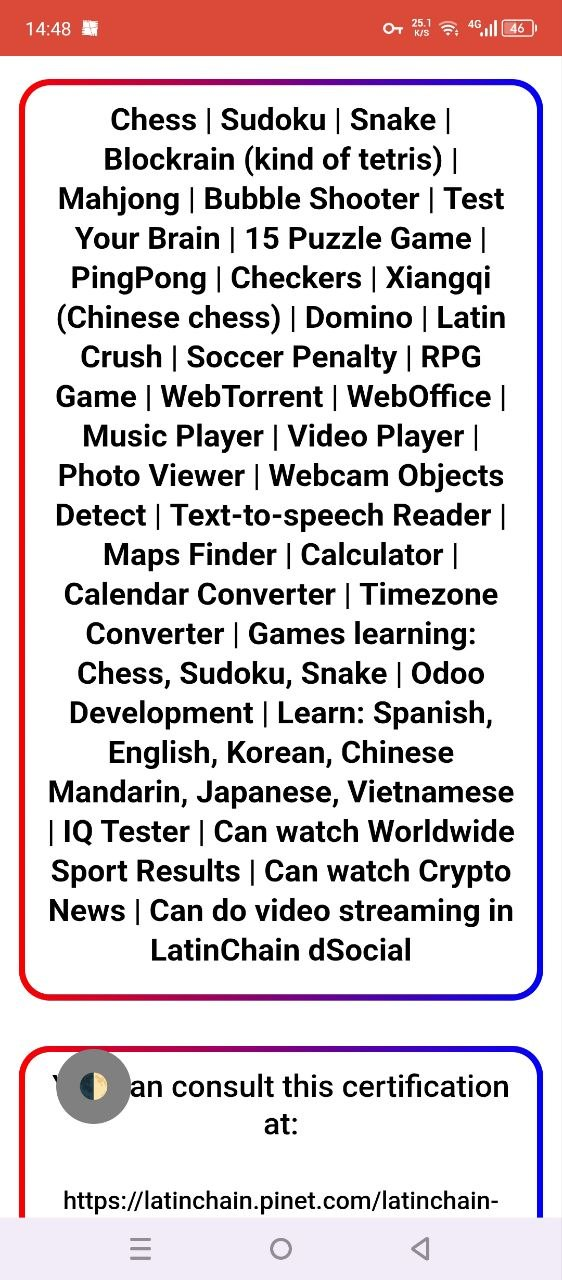
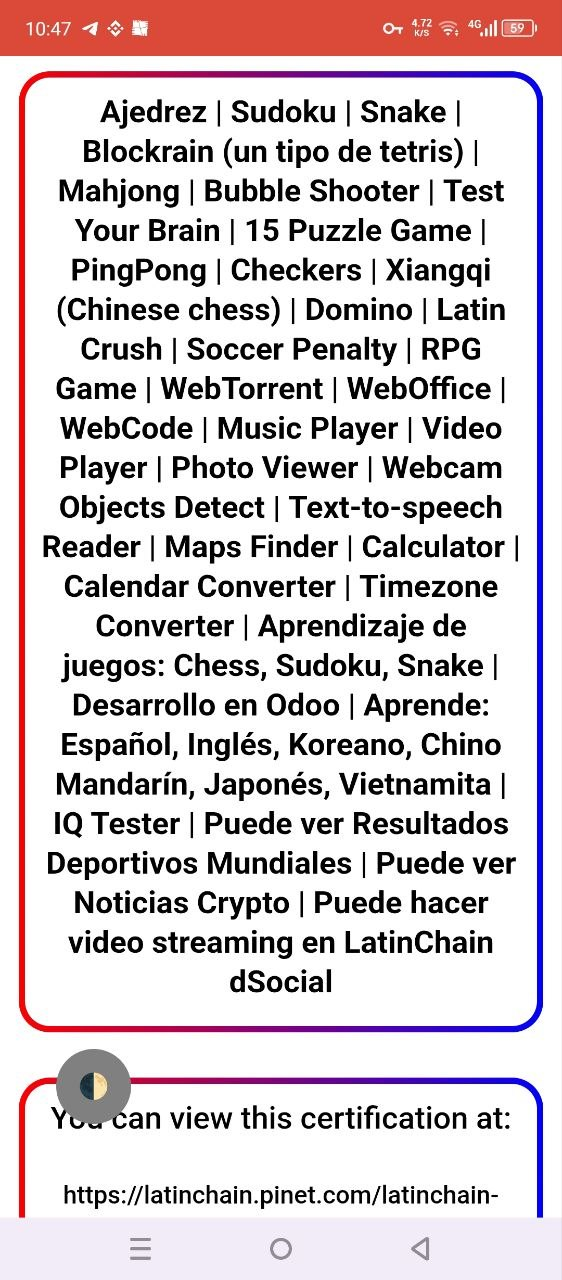
Upgrade

Changed region(s): [[0.0302, 0.0, 0.968, 0.9688]]

diff --git a/website_pinetwork_games_odoo/static/src/js/functions.js b/website_pinetwork_games_odoo/static/src/js/functions.js
@@ -182,7 +182,7 @@ $( document ).ready(function() {
     });
     
     $('.latinchain-specs').on('click', function() {
-        showImageModal('/website_pinetwork_games_odoo/static/src/img/specs/latinchain-specs.jpg?v=1.101', 'LatinChain Specs');
+        showImageModal('/website_pinetwork_games_odoo/static/src/img/specs/latinchain-specs.jpg?v=1.102', 'LatinChain Specs');
     });
     
     //alert(PiNetworkClient);

diff --git a/website_pinetwork_games_odoo/static/src/js/functions_mainscreen.js b/website_pinetwork_games_odoo/static/src/js/functions_mainscreen.js
@@ -2061,7 +2061,7 @@ $( document ).ready(function() {
     
     
     $('.latinchain-specs').on('click', function() {
-        showImageModal('/website_pinetwork_games_odoo/static/src/img/specs/latinchain-specs.jpg?v=1.101', 'LatinChain Specs');
+        showImageModal('/website_pinetwork_games_odoo/static/src/img/specs/latinchain-specs.jpg?v=1.102', 'LatinChain Specs');
     });
     
     $( ".pi-hackathon-info" ).click(function() {

diff --git a/website_pinetwork_games_odoo/static/src/js/functions_radioforus.js b/website_pinetwork_games_odoo/static/src/js/functions_radioforus.js
@@ -161,7 +161,7 @@ $( document ).ready(function() {
     });
     
     $('.latinchain-specs').on('click', function() {
-        showImageModal('/website_pinetwork_games_odoo/static/src/img/specs/latinchain-specs.jpg?v=1.101', 'LatinChain Specs');
+        showImageModal('/website_pinetwork_games_odoo/static/src/img/specs/latinchain-specs.jpg?v=1.102', 'LatinChain Specs');
     });
             
     //alert(PiNetworkClient);